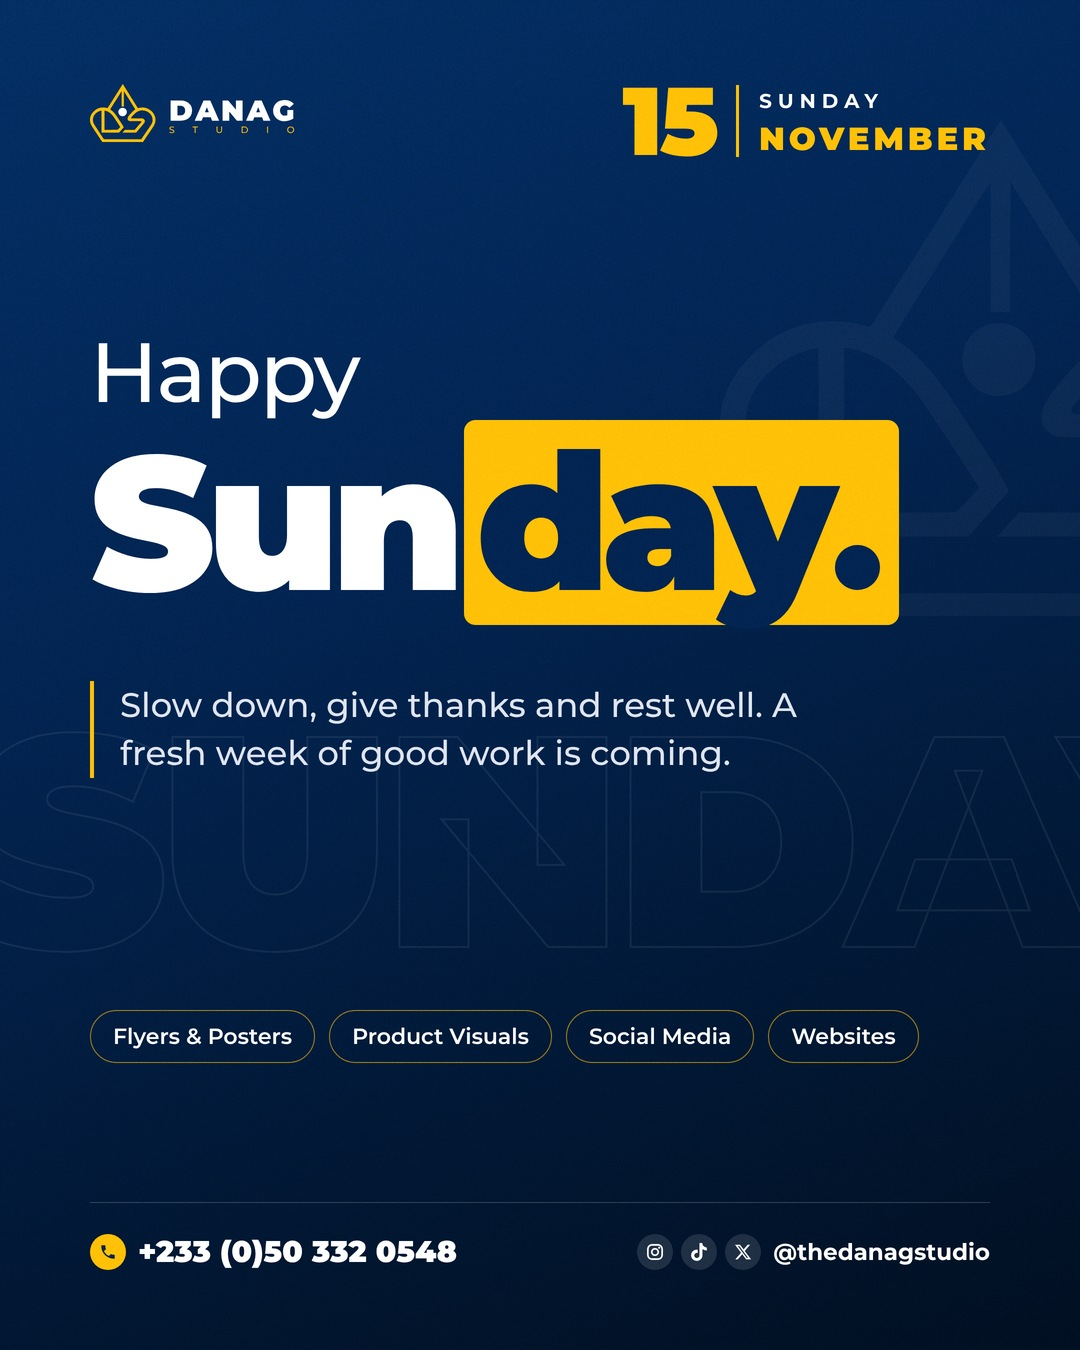
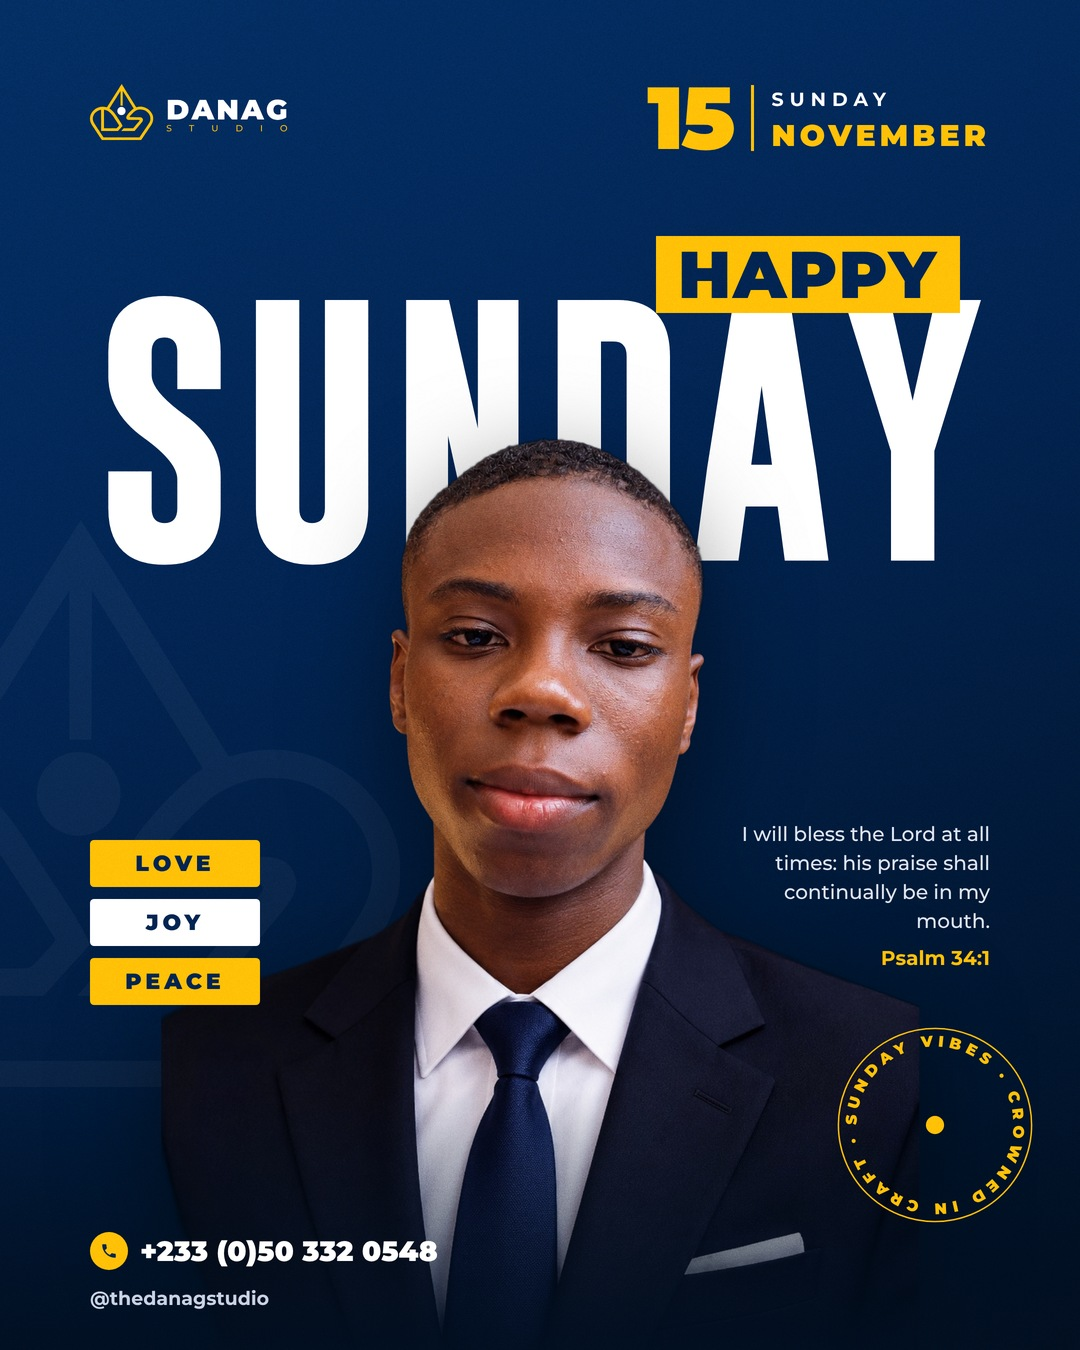
Happy Sunday in the portrait-over-SUNDAY style (refs/sunday)
Claude-Session: https://claude.ai/code/session_016a1VN4sEuNiBsko23wNLQZ

diff --git a/promo/render_sunday.py b/promo/render_sunday.py
@@ -1,0 +1,58 @@
+"""Happy Sunday (guide: references/sunday 01-02): giant condensed SUNDAY behind a portrait cut-out, HAPPY in a gold box,
+LOVE/JOY/PEACE tags, verse, ring text. Navy, no glow.
+Usage: python3 promo/render_sunday.py OUT YYYY-MM-DD [portrait.png]
+"""
+import sys, os, re, pathlib, datetime as dt
+from playwright.sync_api import sync_playwright
+from PIL import Image
+P = os.path.dirname(os.path.abspath(__file__)); R = os.path.dirname(P); B = f'{R}/book-flyer'
+sys.path.insert(0, B)
+import render_book as rb
+from contacts import IC
+out, ds = sys.argv[1:3]
+PORT = pathlib.Path(sys.argv[3] if len(sys.argv) > 3 else '/home/claude/assets/danag-portrait-cut.png').as_uri()
+d = dt.date.fromisoformat(ds)
+F = f'{R}/fonts/'; G = '#FFC107'; N = '#022452'
+logo = re.sub(r'<\?xml[^>]*>', '', open(f'{B}/logo-on-navy.svg').read()).replace('<svg', '<svg style="height:56px;width:auto;display:block"', 1)
+ic = lambda k, c, s=18: f'<svg viewBox="0 0 24 24" width="{s}" height="{s}" style="color:{c};flex:none">{IC[k]}</svg>'
+cap = 470
+while rb.width('SUNDAY', cap) > 900: cap -= 4
+big = rb.line('SUNDAY', cap, '#fff')
+bw = rb.width('SUNDAY', cap)
+ring = 'SUNDAY VIBES  ·  CROWNED IN CRAFT  ·  '
+html = f"""<html><head><style>
+@font-face{{font-family:M;font-weight:500;src:url({F}montserrat-latin-500-normal.woff2)}}
+@font-face{{font-family:M;font-weight:700;src:url({F}montserrat-latin-700-normal.woff2)}}
+@font-face{{font-family:M;font-weight:900;src:url({F}montserrat-latin-900-normal.woff2)}}
+*{{margin:0;padding:0;box-sizing:border-box}}
+body{{width:1080px;height:1350px;overflow:hidden;position:relative;font-family:M;color:#fff;background:linear-gradient(160deg,#032F65 0%,#022452 40%,#011631 78%,#010F21 100%)}}
+.a{{position:absolute}} .tag{{background:{G};color:{N};font-weight:900;font-size:22px;letter-spacing:4px;padding:10px 0;width:170px;text-align:center;border-radius:4px}}
+</style></head><body>
+<svg class="a" viewBox="252 255 749 664" style="left:-240px;top:520px;width:640px;opacity:.035"><path fill="#fff" fill-rule="evenodd" d="{rb.MK['nodot']}"/><path fill="#fff" d="{rb.MK['dot']}"/></svg>
+<div class="a" style="left:90px;top:84px">{logo}</div>
+<div class="a" style="right:90px;top:84px;display:flex;align-items:center;gap:18px">
+ <div style="font-weight:900;font-size:88px;line-height:.78;color:{G};letter-spacing:-3px">{d.strftime('%d')}</div>
+ <div style="width:3px;height:66px;background:{G}"></div>
+ <div style="font-weight:700;font-size:19px;letter-spacing:6px;line-height:1.55">SUNDAY<span style="display:block;font-weight:900;font-size:30px;letter-spacing:4px;line-height:1.1;margin-top:4px;color:{G}">{d.strftime('%B').upper()}</span></div>
+</div>
+<div class="a" style="left:{(1080 - bw) / 2:.0f}px;top:300px">{big}</div>
+<div class="a" style="left:{(1080 - bw) / 2 + bw - 330:.0f}px;top:236px;background:{G};color:{N};font-weight:900;font-size:66px;letter-spacing:2px;padding:4px 22px;line-height:1.05">HAPPY</div>
+<img class="a" src="{PORT}" style="left:50%;transform:translateX(-50%);bottom:0;height:1010px;filter:drop-shadow(0 30px 50px rgba(0,0,0,.5))">
+<div class="a" style="left:0;right:0;bottom:0;height:260px;background:linear-gradient(180deg,transparent,rgba(1,15,33,.92))"></div>
+<div class="a" style="left:90px;top:840px;display:flex;flex-direction:column;gap:12px"><div class="tag">LOVE</div><div class="tag" style="background:#fff">JOY</div><div class="tag">PEACE</div></div>
+<div class="a" style="right:90px;top:820px;width:250px;text-align:right;font-weight:500;font-size:20px;line-height:1.45;color:#dfe5f1">I will bless the Lord at all times: his praise shall continually be in my mouth.<div style="color:{G};font-weight:700;margin-top:8px">Psalm 34:1</div></div>
+<svg class="a" viewBox="0 0 300 300" style="right:40px;bottom:120px;width:210px;height:210px"><defs><path id="c" d="M150,150 m-112,0 a112,112 0 1,1 224,0 a112,112 0 1,1 -224,0"/></defs>
+ <circle cx="150" cy="150" r="138" fill="none" stroke="{G}" stroke-width="2"/><text font-family="M" font-weight="900" font-size="22" letter-spacing="5" fill="{G}"><textPath href="#c" textLength="690">{ring}</textPath></text>
+ <circle cx="150" cy="150" r="13" fill="{G}"/></svg>
+<div class="a" style="left:90px;bottom:80px;display:flex;align-items:center;gap:12px;font-weight:900;font-size:28px"><span style="width:38px;height:38px;border-radius:50%;background:{G};display:inline-flex;align-items:center;justify-content:center">{ic('PH', N)}</span>+233 (0)50 332 0548</div>
+<div class="a" style="left:90px;bottom:40px;font-weight:700;font-size:19px;color:#c9d3e6">@thedanagstudio</div>
+<div class="a" style="inset:0;z-index:50;pointer-events:none;opacity:.16;mix-blend-mode:overlay;background-size:256px;background-image:url({R}/grain.png)"></div>
+<script>document.fonts.ready.then(()=>document.body.dataset.done=1)</script></body></html>"""
+tmp = '/tmp/_sun.html'; open(tmp, 'w').write(html)
+with sync_playwright() as p:
+    b = p.chromium.launch(executable_path='/usr/bin/google-chrome'); pg = b.new_page(viewport={'width': 1080, 'height': 1350}, device_scale_factor=2)
+    pg.goto(pathlib.Path(tmp).as_uri()); pg.wait_for_selector('body[data-done]'); pg.wait_for_timeout(400)
+    pg.screenshot(path='/tmp/_sun.png'); b.close()
+im = Image.open('/tmp/_sun.png').convert('RGB')
+im.save(out + '.jpg', quality=93, subsampling=0); im.resize((1080, 1350), Image.LANCZOS).save(out + '-1080.jpg', quality=93)
+print('ok', out)
